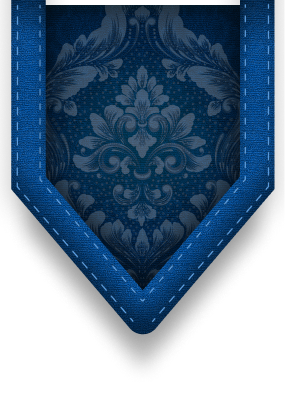
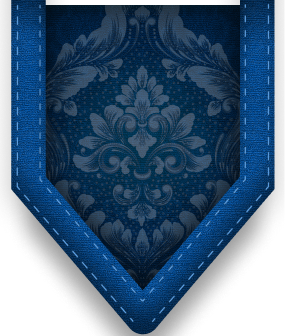
changes on image size, and block player function changes

diff --git a/src/app/components/player-tag/player-tag.html b/src/app/components/player-tag/player-tag.html
@@ -10,7 +10,7 @@
     <div class="player_tag">
       <div class="player_cont">
         <div class="player_profile">
-          <img class="player_class_pic" src="{{player.playerRole.roleImage.toLowerCase()}}" alt="class_icon" (click)="killPlayer(player)">
+          <img class="player_class_pic" src="{{player.playerRole.roleImage.toLowerCase()}}" alt="class_icon" (click)="blockOrKillPlayer(player)">
           @if(player.isDead){
             @if(player.wasExecuted){
               <img class="death_token active" src="/executed_token.png" alt="dead" (click)="resurrectPlayer(player)">
@@ -58,7 +58,7 @@
                   <div class="token_container">
                     <img class="center_base" src="/ghost_vote_base.png" alt="" (click)="spendDeadVote(player)">
                     @if(player.hasDeadVote){
-                      <img class="center_base token"
+                      <img class="center_base center_token"
                            src="/ghost_vote_token.png" alt=""
                            (click)="spendDeadVote(player)">
                     }
@@ -72,7 +72,7 @@
                   <img class="center_base" src="/ability_base.png" alt="" (click)="spendAbility(player)">
                   @if(player.hasAbility && !player.isDead){
                     <img class="center_base token_image" src="{{player.playerRole.roleImage.toLowerCase()}}" alt="" width="auto" height="200%">
-                    <img class="center_base ability_token"
+                    <img class="center_base center_token"
                          src="/ability_token.png" alt=""
                          (click)="spendAbility(player)">
 

diff --git a/src/app/components/player-tag/player-tag.css b/src/app/components/player-tag/player-tag.css
@@ -232,19 +232,15 @@
   justify-content: center;
   align-items: center;
   display: flex;
-  pointer-events: none;
   filter: drop-shadow(0px 10px 10px #000);
   transition: top 0.4s ease 0.07s, margin-bottom 0.4s ease 0.07s;
   z-index: 0;
 }
-/*.player_options:hover{*/
-/*  top: -2.5cqw;*/
-/*  margin-bottom: -1.5cqw;*/
-/*}*/
+
 
 .slide_options:hover ~ .player_options{
   top: -6cqw;
-  margin-bottom: -1.5cqw;
+  margin-bottom: -4.5cqw;
 }
 
 /*NOMINATION AREA*/
@@ -255,7 +251,7 @@
 }
 .left_base{
   position: absolute;
-  height: 140%;
+  height: 116%;
   top: -4%;
   width: auto;
   left: 33%;
@@ -263,15 +259,16 @@
 }
 .right_base{
   position: absolute;
-  height: 140%;
+  height: 116%;
   top: -4%;
   width: auto;
   right: 33%;
   filter: drop-shadow(0px 3px 3px #000000);
 }
+
 .center_base{
   position: absolute;
-  height: 120%;
+  height: 103%;
   top: -4%;
   width: auto;
   left: 50%;
@@ -286,7 +283,7 @@
   filter: drop-shadow(0px 5px 5px rgba(0, 0, 0, 0));
 }
 
-.ability_token{
+.center_token{
   scale: .80;
   top: -22%;
   left: 49%;

diff --git a/src/app/classes/GameLogic.ts b/src/app/classes/GameLogic.ts
@@ -295,9 +295,13 @@ export class GameLogic {
 
   }
 
-  killPlayer(player : Player): void {
-    player.isDead = true;
-    this.moveToLast(player);
+  blockOrKillPlayer(player : Player): void {
+    if(this.executeMode){
+      this.nominatePlayer(player);
+    } else{
+      player.isDead = true;
+      this.moveToLast(player);
+    }
   }
 
   resurrectPlayer(player : Player): void {
@@ -368,9 +372,6 @@ export class GameLogic {
 
   wasNominated(self : Player): void{
     self.wasIndicated = !self.wasIndicated;
-    if(self.wasIndicated){
-      this.nominatePlayer(self);
-    }
   }
 
   spendDeadVote(self : Player): void {
